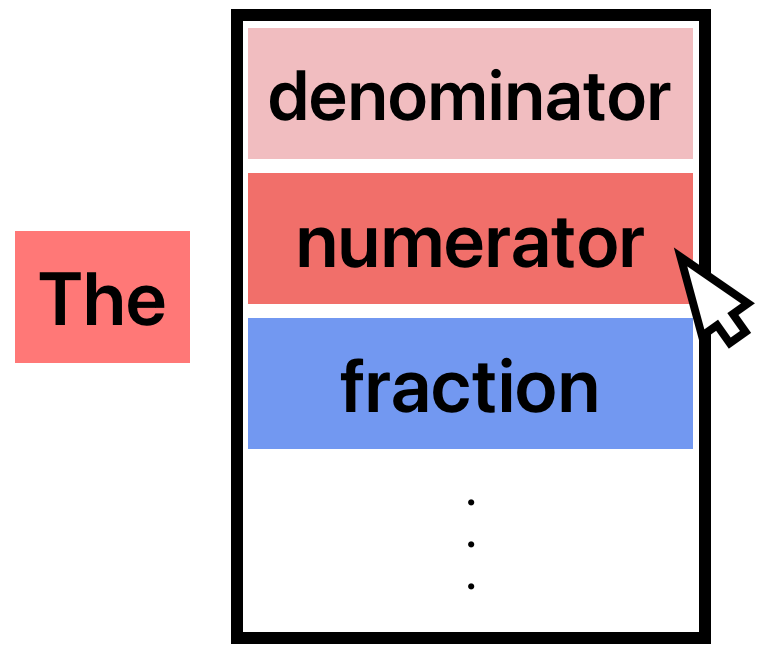
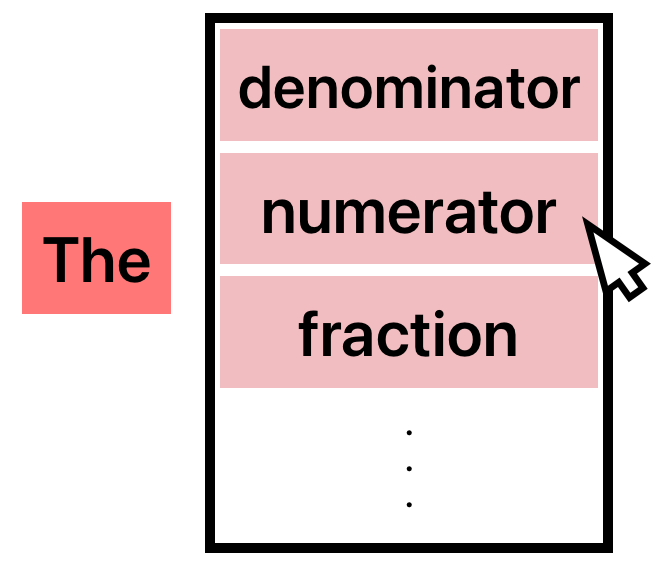
update

diff --git a/proposal.html b/proposal.html
@@ -81,30 +81,47 @@
 	  </p>
 	  <h4> Idea 1: Highlighted Text </h4>
 	  <img src="assets/text_entropy.png">
+	  <p>
+	  	One popular way to visualize entropy of tokens is through encoding entropy using highlight color for corresponding tokens. Alternative 
+		way to encode entropy would be to utilize fontsize. The benefits of this idea lies in its simplicity. Viewers of this visualization 
+		is immediately drawn to the encoded entropy. The downside of this visualization is that it does not effectively encode the autoregressive 
+		nature of the generation. To an uneducated viewer, the visualization is just some text with colorful highlights.
+	  </p>
 	  <h4> Idea 2: Autoregressive Selector </h4>
 	  <img src="assets/entropy_selector.png">
+	  <p>
+	  	To encode the autoregressive nature of the generation, we could simulate the task of next token prediction through an interactive component.
+		By forcing users to select tokens from the distribution, 
+	  </p>
 	  <h4> Idea 3: Entropy Tree </h4>
 	  <img src="assets/entropy_tree.png">
+	  <p>
+	  </p>
 	  <h4> Final Proposal </h4>
 	  <img src="assets/tree_to_text.png">
-	  <img src="assets/back_to_tree.png">
+	  <p>
+	  </p>
 	</div>
 	<div class="section">
 	  <h1>Must-Have Features</h1>
 	  <ul>
-		<li></li>
-		<li></li>
+		<li> Users should be able to easily navigate between different prompts </li>
+		<li> Users should be able to easily filter/sort prompts </li>
+		<li> Users should be able to zoom in/out and drag the canvas to view the entropy tree </li>
+		<li> Users should be able to select paths at the "forks" </li>
 	  </ul>
 	</div>
 	<div class="section">
 	  <h1>Optional Features</h1>
-	  <p>
-	  </p>
+	  <ul>
+		<li></li>
+	  </ul>
 	</div>
 	<div class="section">
 	  <h1>Project Schedule</h1>
-	  <p>
-	  </p>
+	  <ul>
+		<li><strong>Week of </strong></li>
+	  </ul>
 	</div>
   </body>
 </html>
